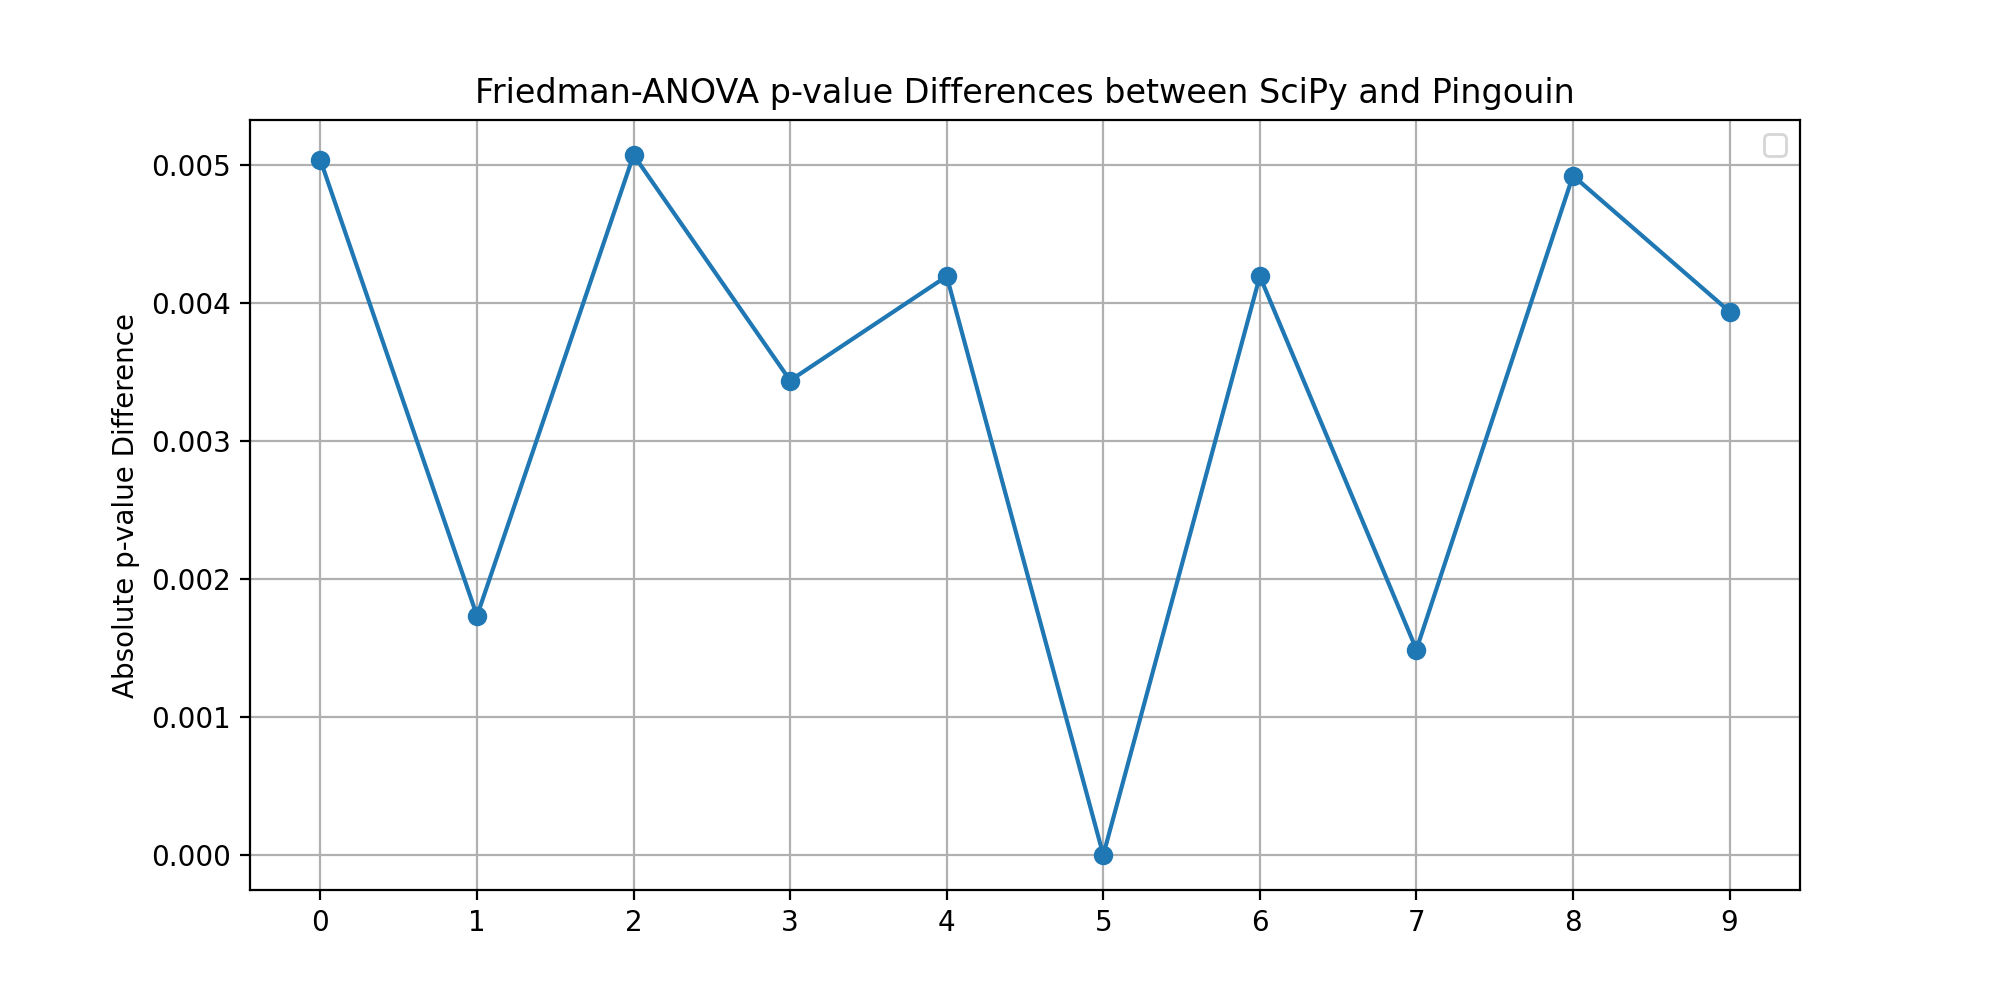
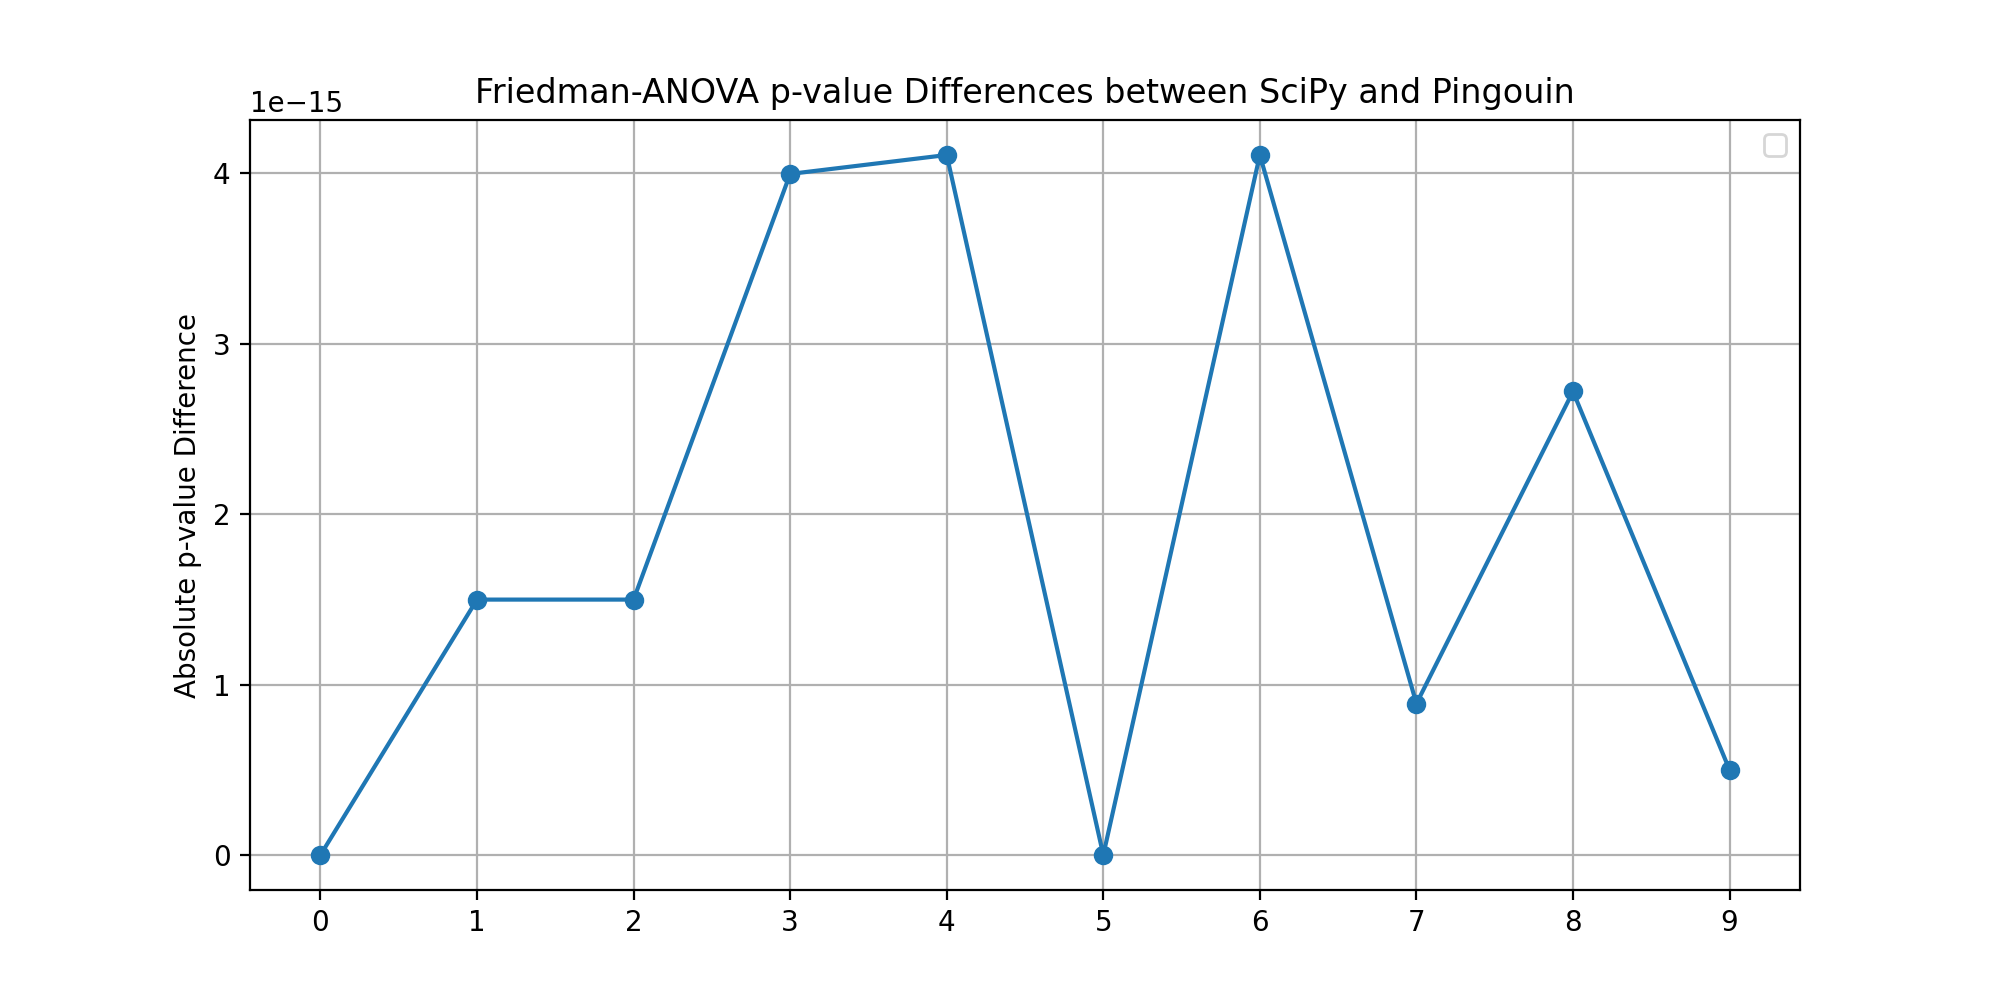
change pingouin test to 'chisq' instead of 'f'

diff --git a/statistical_tests/test_statistical_analysis.py b/statistical_tests/test_statistical_analysis.py
@@ -62,7 +62,7 @@ for s in seeds:
     })
 
     # Friedman test
-    p_fried_ping = pg.friedman(data=df, method='f')
+    p_fried_ping = pg.friedman(data=df, method='chisq')
     print(f"(pingouin) Friedman test p-value: {p_fried_ping['p-unc'].values[0]}")
 
     # Wilcoxon paired test
